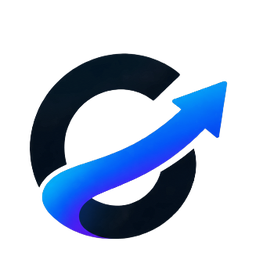
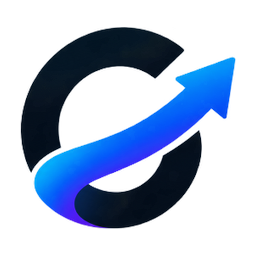
feat: perfectly center official emblem on white background, render coded typography for Growmybizz and tagline

diff --git a/src/components/BrandLogo.tsx b/src/components/BrandLogo.tsx
@@ -3,75 +3,146 @@
 import React from 'react';
 import Link from 'next/link';
 import Image from 'next/image';
+import { SYNE_FONT } from '@/lib/fonts';
 
 interface BrandLogoProps {
-  variant?: 'full' | 'icon';
+  variant?: 'full' | 'icon' | 'stacked';
   size?: 'sm' | 'md' | 'lg' | 'xl';
   theme?: 'dark' | 'light' | 'auto';
+  showTagline?: boolean;
+  centered?: boolean;
   className?: string;
   asLink?: boolean;
 }
 
 /**
  * Official Growmybizz Brand Logo
- * Renders the exact official brand identity asset uploaded by the founder.
- * - 'light' / 'auto': Full horizontal logo with black 'Growmy' for light surfaces.
- * - 'dark': High-contrast light version with white 'Growmy' for navy/dark backgrounds.
- * - 'icon': Emblem monogram only.
+ * - Uses ONLY the official circular 3D growth arrow emblem on a pure WHITE background.
+ * - Icon is perfectly centered inside the white background badge.
+ * - Typography is cleanly coded: "Growmy" + gradient "bizz" + "DIGITAL SOLUTIONS FOR A BIGGER TOMORROW".
  */
 export default function BrandLogo({
   variant = 'full',
   size = 'md',
   theme = 'auto',
+  showTagline = true,
+  centered = false,
   className = '',
   asLink = true,
 }: BrandLogoProps) {
-  // Dimension definitions with 3.155:1 aspect ratio for full logo
   const sizeMap = {
-    sm: { height: 28, width: 88, iconSize: 28 },
-    md: { height: 36, width: 114, iconSize: 36 },
-    lg: { height: 46, width: 145, iconSize: 46 },
-    xl: { height: 58, width: 183, iconSize: 58 },
+    sm: {
+      badge: 34,
+      icon: 24,
+      title: 'text-[1.05rem]',
+      tagline: 'text-[7.5px] tracking-[0.14em]',
+      gap: 'gap-2.5',
+    },
+    md: {
+      badge: 40,
+      icon: 28,
+      title: 'text-[1.25rem]',
+      tagline: 'text-[8.5px] tracking-[0.16em]',
+      gap: 'gap-3',
+    },
+    lg: {
+      badge: 48,
+      icon: 34,
+      title: 'text-[1.5rem]',
+      tagline: 'text-[10px] tracking-[0.18em]',
+      gap: 'gap-3.5',
+    },
+    xl: {
+      badge: 64,
+      icon: 46,
+      title: 'text-[1.95rem]',
+      tagline: 'text-[11.5px] tracking-[0.2em]',
+      gap: 'gap-4',
+    },
   }[size];
 
   const isDarkSurface = theme === 'dark';
-  const logoSrc = isDarkSurface
-    ? '/growmybizz-logo-light.png'
-    : '/growmybizz-logo.png';
+  const textPrimaryColor = isDarkSurface ? 'text-white' : 'text-[#0F1C31]';
+  const taglineColor = isDarkSurface ? 'text-white/60' : 'text-[#506680]';
 
-  const logoContent = (
-    <div className={`inline-flex items-center select-none group transition-opacity hover:opacity-95 ${className}`}>
-      {variant === 'icon' ? (
-        <div
-          className="relative shrink-0 flex items-center justify-center transition-transform duration-300 group-hover:scale-105"
-          style={{ width: sizeMap.iconSize, height: sizeMap.iconSize }}
+  // ─── Center-aligned Icon with Solid White Background ──────────────────────
+  const iconBadge = (
+    <div
+      className="relative shrink-0 flex items-center justify-center bg-white rounded-xl shadow-[0_2px_10px_rgba(0,0,0,0.08)] border border-black/[0.08] p-1 transition-transform duration-300 group-hover:scale-105"
+      style={{
+        width: sizeMap.badge,
+        height: sizeMap.badge,
+      }}
+    >
+      <div className="relative flex items-center justify-center w-full h-full">
+        <Image
+          src="/brand-logo-mark.png"
+          alt="Growmybizz Mark"
+          width={sizeMap.icon}
+          height={sizeMap.icon}
+          priority
+          className="object-contain drop-shadow-[0_1px_4px_rgba(59,130,246,0.25)]"
+        />
+      </div>
+    </div>
+  );
+
+  // ─── Pure Coded Typography (Growmy + Gradient bizz + Tagline) ─────────────
+  const textContent = (
+    <div className={`flex flex-col ${centered || variant === 'stacked' ? 'items-center text-center' : 'items-start text-left'}`}>
+      <div className="flex items-baseline leading-none tracking-tight">
+        <span
+          className={`font-black tracking-tight ${textPrimaryColor} ${sizeMap.title}`}
+          style={{ fontFamily: SYNE_FONT, letterSpacing: '-0.035em' }}
         >
-          <Image
-            src="/brand-logo-mark.png"
-            alt="Growmybizz"
-            width={sizeMap.iconSize}
-            height={sizeMap.iconSize}
-            priority
-            className="w-full h-full object-contain rounded-xl drop-shadow-[0_2px_12px_rgba(59,130,246,0.35)]"
-          />
-        </div>
-      ) : (
-        <div
-          className="relative shrink-0 flex items-center transition-transform duration-300 group-hover:scale-102"
-          style={{ height: sizeMap.height, width: sizeMap.width }}
+          Growmy
+        </span>
+        <span
+          className={`font-black ${sizeMap.title} bg-gradient-to-r from-[#00b4d8] via-[#3b82f6] to-[#8b5cf6] bg-clip-text text-transparent`}
+          style={{ fontFamily: SYNE_FONT, letterSpacing: '-0.025em' }}
         >
-          <Image
-            src={logoSrc}
-            alt="Growmybizz — Digital Solutions for a Bigger Tomorrow"
-            width={sizeMap.width}
-            height={sizeMap.height}
-            priority
-            className="w-full h-full object-contain"
-          />
-        </div>
+          bizz
+        </span>
+      </div>
+
+      {showTagline && (
+        <span
+          className={`font-extrabold uppercase mt-1 leading-tight ${taglineColor} ${sizeMap.tagline} hidden sm:block`}
+        >
+          Digital Solutions for a Bigger Tomorrow
+        </span>
       )}
     </div>
   );
+
+  let logoContent: React.ReactNode;
+
+  if (variant === 'icon') {
+    logoContent = (
+      <div className={`inline-flex items-center justify-center select-none group ${className}`}>
+        {iconBadge}
+      </div>
+    );
+  } else if (variant === 'stacked') {
+    logoContent = (
+      <div className={`inline-flex flex-col items-center justify-center gap-2 select-none group ${className}`}>
+        {iconBadge}
+        {textContent}
+      </div>
+    );
+  } else {
+    // Full horizontal lockup
+    logoContent = (
+      <div
+        className={`inline-flex items-center ${sizeMap.gap} select-none group ${
+          centered ? 'justify-center' : ''
+        } ${className}`}
+      >
+        {iconBadge}
+        {textContent}
+      </div>
+    );
+  }
 
   if (asLink) {
     return (

diff --git a/src/components/home/InteractiveGrowthOrbit.tsx b/src/components/home/InteractiveGrowthOrbit.tsx
@@ -221,26 +221,24 @@ export default function InteractiveGrowthOrbit() {
             }}
             title="Click to schedule discovery"
           >
-            {/* Core Orb Container */}
+            {/* Core Orb Container — Centered with Pure White Background */}
             <div
-              className="relative w-24 h-24 rounded-3xl p-1.5 flex items-center justify-center shadow-2xl transition-all duration-300 group-hover:shadow-[0_0_50px_rgba(59,130,246,0.6)]"
-              style={{
-                background: 'linear-gradient(135deg, rgba(15,28,49,0.95), rgba(8,15,28,0.98))',
-                border: '1.5px solid rgba(255,255,255,0.15)',
-              }}
+              className="relative w-20 h-20 rounded-2xl p-1.5 flex items-center justify-center bg-white shadow-2xl transition-all duration-300 group-hover:shadow-[0_0_40px_rgba(255,255,255,0.7)]"
             >
               {/* Outer Pulsing Glow */}
-              <div className="absolute -inset-1 rounded-3xl bg-gradient-to-r from-cyan-400 to-purple-600 opacity-40 blur-md group-hover:opacity-80 transition-opacity animate-pulse-dot" />
+              <div className="absolute -inset-1 rounded-2xl bg-gradient-to-r from-cyan-400 to-purple-600 opacity-40 blur-md group-hover:opacity-80 transition-opacity animate-pulse-dot" />
 
-              {/* Exact Brand Logo Emblem */}
-              <Image
-                src="/brand-logo-mark.png"
-                alt="Growmybizz Core"
-                width={84}
-                height={84}
-                priority
-                className="relative z-10 w-full h-full object-contain rounded-2xl drop-shadow-[0_4px_16px_rgba(59,130,246,0.5)]"
-              />
+              {/* Exact Brand Logo Emblem Centered on White */}
+              <div className="relative z-10 w-full h-full flex items-center justify-center bg-white rounded-xl">
+                <Image
+                  src="/brand-logo-mark.png"
+                  alt="Growmybizz Core"
+                  width={60}
+                  height={60}
+                  priority
+                  className="w-full h-full object-contain"
+                />
+              </div>
             </div>
 
             {/* Core Label */}

diff --git a/src/app/admin/login/page.tsx b/src/app/admin/login/page.tsx
@@ -65,8 +65,8 @@ export default function AdminLoginPage() {
       <div className="relative z-10 w-full max-w-sm">
         {/* Brand header */}
         <div className="text-center mb-8">
-          <div className="flex justify-center mb-4">
-            <BrandLogo size="lg" theme="dark" asLink={false} />
+          <div className="flex justify-center mb-6">
+            <BrandLogo size="lg" theme="dark" variant="stacked" centered={true} asLink={false} />
           </div>
           <h1 className="text-xl font-bold text-white">Admin Access</h1>
           <p className="text-white/40 text-sm mt-1">Growmybizz CMS</p>

diff --git a/src/app/admin/dashboard/AdminDashboardClient.tsx b/src/app/admin/dashboard/AdminDashboardClient.tsx
@@ -89,7 +89,7 @@ export default function AdminDashboardClient() {
       >
         {/* Brand */}
         <div className="flex items-center justify-between px-5 h-14 border-b border-white/[0.06]">
-          <BrandLogo size="sm" theme="dark" asLink={false} />
+          <BrandLogo size="sm" theme="dark" showTagline={false} asLink={false} />
           <button
             onClick={() => setSidebarOpen(false)}
             className="lg:hidden text-white/40 hover:text-white p-1"
